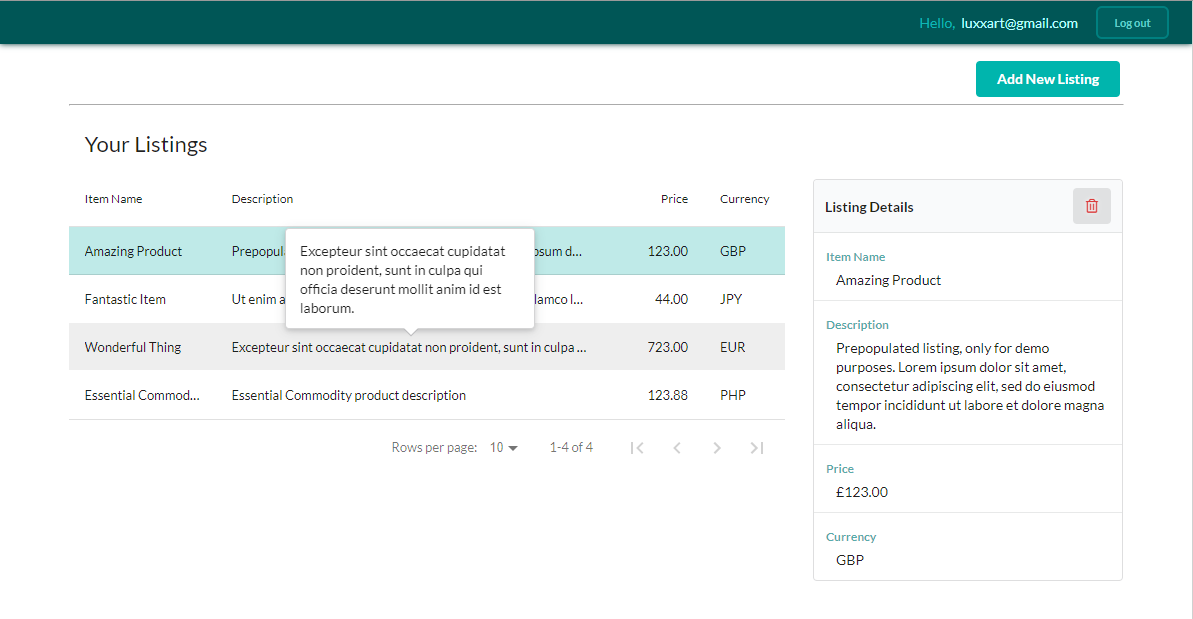
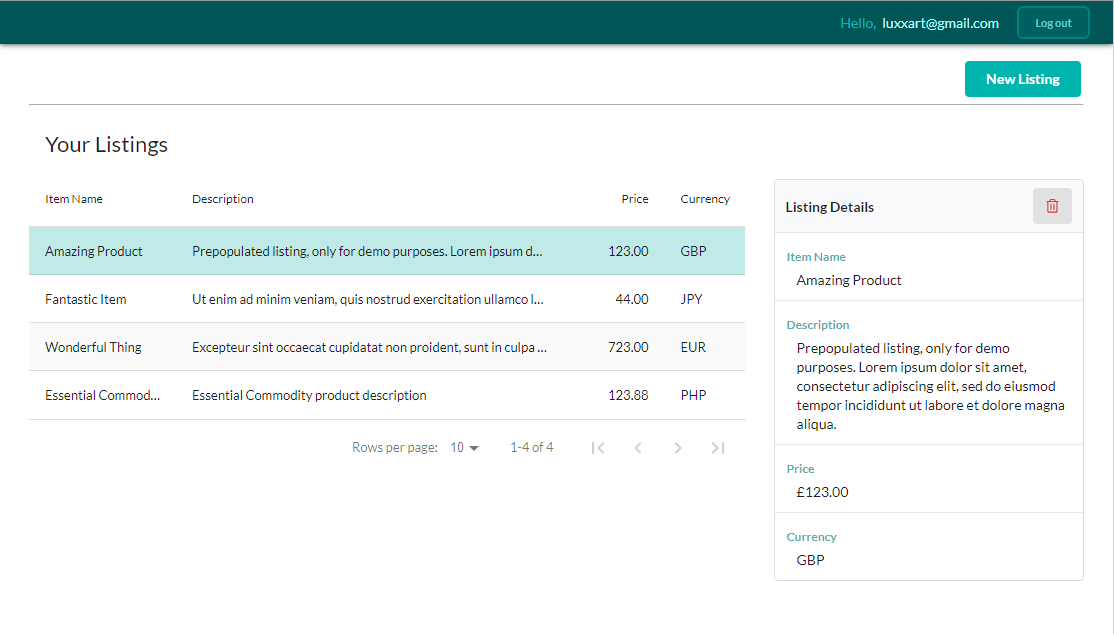
Minor UI text re-wording (New Listing instead of Add New Listing)

diff --git a/src/components/Dashboard/components/AddListingModal/AddListingModal.test.tsx b/src/components/Dashboard/components/AddListingModal/AddListingModal.test.tsx
@@ -31,7 +31,7 @@ describe("<AddListingModal />", () => {
         <AddListingModal />
       </Provider>
     );
-    fireEvent.click(screen.getByText("Add New Listing"));
+    fireEvent.click(screen.getByText("New Listing"));
 
     expect(screen.getByTestId("AddListingModal")).toBeInTheDocument();
   });

diff --git a/src/components/Dashboard/components/AddListingModal/AddListingModal.tsx b/src/components/Dashboard/components/AddListingModal/AddListingModal.tsx
@@ -81,7 +81,7 @@ const AddListingModal: React.FC = () => {
       data-testid="ModalOpenButton"
       color="teal"
     >
-      Add New Listing
+      New Listing
     </Button>
   );
 
